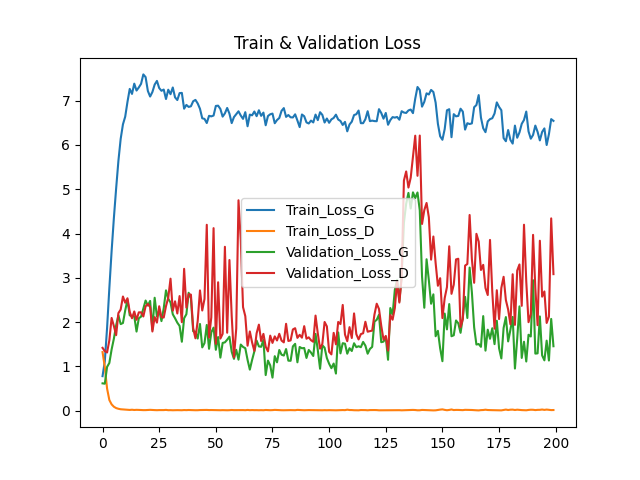
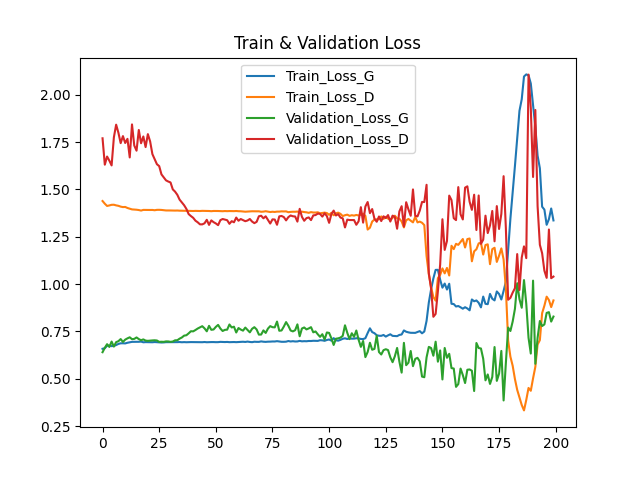
fix: retrain CGAN

diff --git a/DL/CGAN/main.py b/DL/CGAN/main.py
@@ -1,5 +1,6 @@
 import argparse
 import matplotlib.pyplot as plt
+from tqdm import tqdm
 
 import torch
 from torch import optim, nn
@@ -105,27 +106,36 @@ def train(epochs,
     num_batches = len(tr_loader)
 
     for epoch in range(epochs):
-        loss_d = 0
-        loss_g = 0
-        for i, (imgs, labels) in enumerate(tr_loader):
-            real_imgs = imgs.flatten(start_dim=1).to(device)
-            real_labels = F.one_hot(labels, config.NUM_CLASSES).to(device)
+        avg_loss_d = 0
+        avg_loss_g = 0
+        with tqdm(tr_loader) as pbar:
+            pbar.set_description("Epoch {}".format(epoch+1))
+            for i, (imgs, labels) in enumerate(pbar):
+                real_imgs = imgs.flatten(start_dim=1).to(device)
+                real_labels = F.one_hot(labels, config.NUM_CLASSES).to(device)
 
-            loss_d += train_discriminator_onestep(nets, opt_d, real_imgs, real_labels, criterion, device)
-            loss_g += train_generator_onestep(nets, opt_g, real_imgs.shape[0], criterion, device)
+                loss_d = train_discriminator_onestep(nets, opt_d, real_imgs, real_labels, criterion, device)
+                loss_g = train_generator_onestep(nets, opt_g, real_imgs.shape[0], criterion, device)
 
-        loss_d /= num_batches
-        loss_g /= num_batches
+                avg_loss_d += loss_d
+                avg_loss_g += loss_g
 
-        train_loss_history["generator"].append(loss_g)
-        train_loss_history["discriminator"].append(loss_d)
-        print(f"Epoch {epoch+1} / {epochs} Train loss_D: {loss_d}, loss_G: {loss_g}")
+                pbar.set_postfix(loss_d=loss_d, loss_g=loss_g)
+
+        avg_loss_d /= num_batches
+        avg_loss_g /= num_batches
+
+        train_loss_history["generator"].append(avg_loss_g)
+        train_loss_history["discriminator"].append(avg_loss_d)
+        print(f"Epoch {epoch+1} / {epochs} Train loss_D: {avg_loss_d}, loss_G: {avg_loss_g}")
 
         loss_d_val, loss_g_val = evaluate(nets, val_loader, criterion, device)
         val_loss_history["discriminator"].append(loss_d_val)
         val_loss_history["generator"].append(loss_g_val)
 
         print(f"Epoch {epoch+1} / {epochs} Val loss_D: {loss_d_val}, loss_G: {loss_g_val}")
+
+        visualize_history(train_loss_history, val_loss_history)
 
         generator.eval()
         with torch.no_grad():
@@ -274,19 +284,20 @@ def visualize_history(train_loss_history, val_loss_history):
     plt.plot(val_x, val_loss_history["discriminator"], label="Validation_Loss_D")
     plt.legend()
     plt.savefig("./results/loss_history.png")
+    plt.close()
 
 if __name__ == "__main__":
     parser = argparse.ArgumentParser()
     parser.add_argument("--epochs", dest="epochs", action="store", type=int, default=200)
     parser.add_argument("--lr_g", dest="lr_g", action="store", type=float, default=1e-4)
-    parser.add_argument("--lr_d", dest="lr_d", action="store", type=float, default=1e-4)
-    parser.add_argument("--weight_decay_g", dest="weight_decay_g", action="store", type=float, default=1e-3)
-    parser.add_argument("--weight_decay_d", dest="weight_decay_d", action="store", type=float, default=1e-3)
+    parser.add_argument("--lr_d", dest="lr_d", action="store", type=float, default=1e-5)
+    parser.add_argument("--weight_decay_g", dest="weight_decay_g", action="store", type=float, default=1e-9)
+    parser.add_argument("--weight_decay_d", dest="weight_decay_d", action="store", type=float, default=1e-5)
     parser.add_argument("--device", dest="device", action="store", type=str, default="cpu")
-    parser.add_argument("--split_ratio", dest="split_ratio", action="store", type=float, default=0.2)
-    parser.add_argument("--batch_size", dest="batch_size", action="store", type=int, default=32)
+    parser.add_argument("--split_ratio", dest="split_ratio", action="store", type=float, default=0.1)
+    parser.add_argument("--batch_size", dest="batch_size", action="store", type=int, default=64)
     parser.add_argument("--pretrained", dest="pretrained", action="store", type=str, default=None)
-    parser.add_argument("--dropout", dest="dropout", action="store", type=float, default=0.3)
+    parser.add_argument("--dropout", dest="dropout", action="store", type=float, default=0.1)
     parser.add_argument("--train", dest="train", action="store_true")
     args = parser.parse_args()
 

diff --git a/DL/CGAN/config.py b/DL/CGAN/config.py
@@ -1,7 +1,7 @@
 SEED = 123
 ROOT = "./data"
 MODELPATH = "./models/"
-IMAGEPATH = "./results/imgs/"
+IMAGEPATH = "./samples/"
 N_SAMPLES = 10
 
 WIDTH = 28
